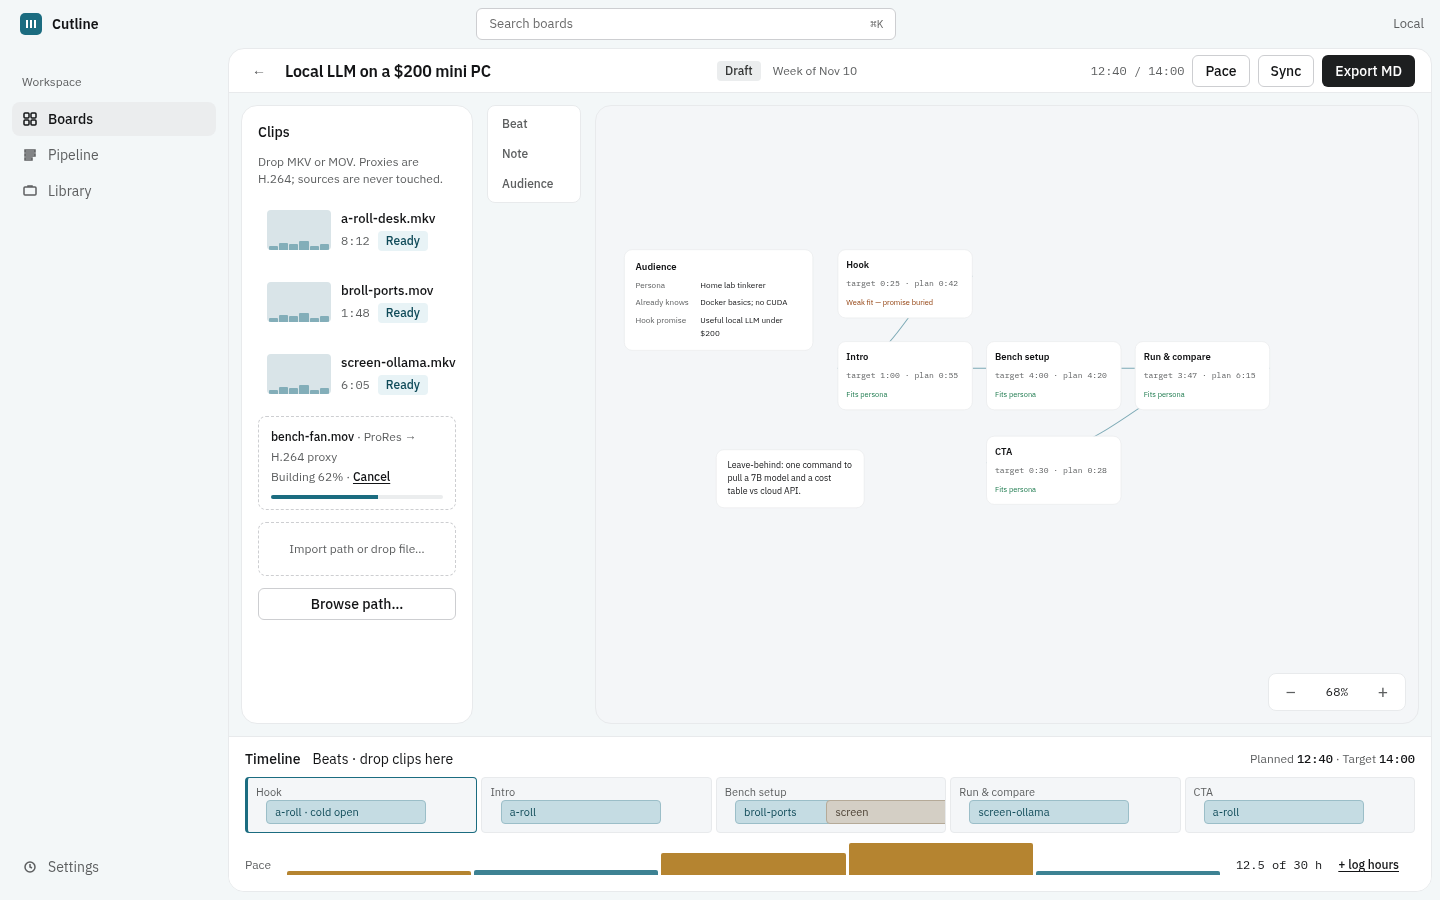
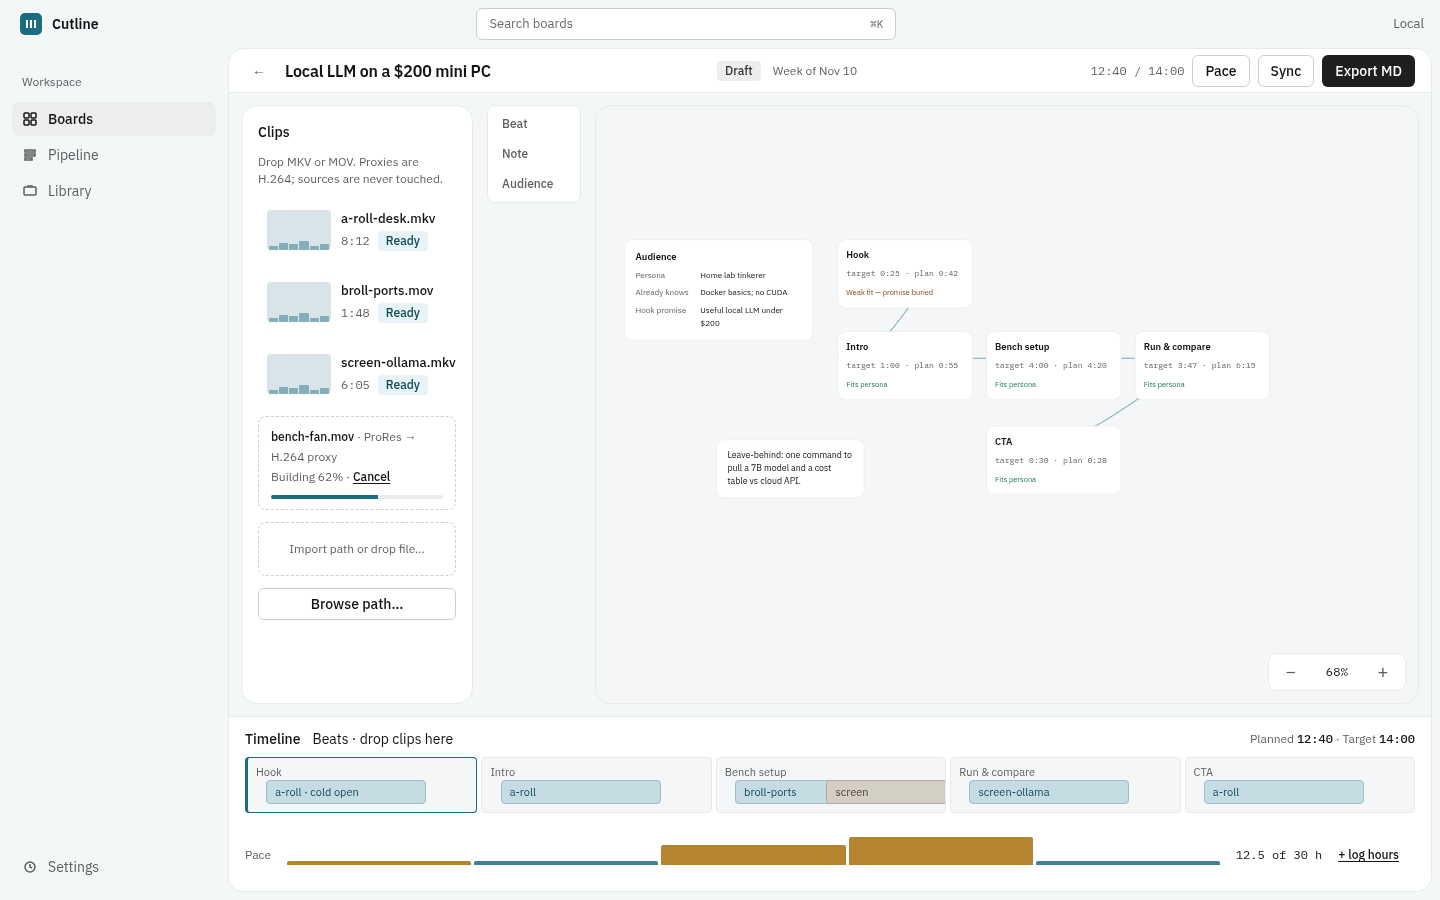
Polish timeline pace bars and Pace curve label/tag alignment
Add 12px bottom padding on the timeline pace row and cap bars at 70%
height. Place beat x-labels on end ticks to match cumulative dots, and
nudge delta tags up-and-left so they clear both the curve and the target
line. Retake canvas/pace screenshots and sync docs/screenshots.

diff --git a/public/js/app.js b/public/js/app.js
@@ -496,7 +496,8 @@ function renderMiniCurve() {
   const max = Math.max(...parts.map((p) => p.plannedSec || p.duration || 1), 1);
   return parts.map((p) => {
     const dur = p.plannedSec ?? p.duration ?? 0;
-    const h = Math.max(12, Math.round((dur / max) * 100));
+    // Cap tallest bar at ~70% of row height so bars clear the panel bottom padding
+    const h = Math.max(10, Math.round((dur / max) * 70));
     const slow = p.slow || (p.targetSec != null && dur > p.targetSec);
     return `<b class="${slow ? 'slow' : ''}" style="height:${h}%"></b>`;
   }).join('');
@@ -646,7 +647,7 @@ function renderPace() {
   const hoursOn = hoursTotal > 0 || hours?.activityWatch?.ok;
 
   const maxCum = Math.max(pacing.targetRuntimeSec || 1, pacing.totalPlannedSec || 1, 1);
-  const chartW = 640; const chartH = 200; const padL = 40; const padR = 28; const padT = 28; const padB = 36;
+  const chartW = 640; const chartH = 228; const padL = 40; const padR = 28; const padT = 48; const padB = 36;
   const plotW = chartW - padL - padR;
   const plotH = chartH - padT - padB;
   const n = Math.max(parts.length, 1);
@@ -664,9 +665,10 @@ function renderPace() {
   const poly = [`${padL},${padT + plotH}`, ...pts.map((p) => `${p.x},${p.y}`)].join(' ');
   const area = `M${padL},${padT + plotH} ` + pts.map((p) => `L${p.x},${p.y}`).join(' ') + ` L${pts[pts.length - 1].x},${padT + plotH} Z`;
   const targetY = padT + plotH - ((pacing.targetRuntimeSec || 0) / maxCum) * plotH;
+  // Label under each beat's END tick so it aligns with the cumulative point/dot
   const axisLabels = parts.map((p, i) => {
-    const xMid = padL + ((i + 0.5) / n) * plotW;
-    return { xMid, text: shortBeatLabel(p.label) };
+    const xEnd = padL + ((i + 1) / n) * plotW;
+    return { x: xEnd, text: shortBeatLabel(p.label), i };
   });
 
   const el = sheet();
@@ -699,7 +701,7 @@ function renderPace() {
               <span><i class="dot" style="background:var(--text);width:12px;height:1px;border-radius:0;vertical-align:middle;display:inline-block"></i>Target ${fmt(b.board.targetRuntimeSec)}</span>
               <span><i class="dot" style="background:var(--chart-3)"></i>Over part target</span>
             </div>
-            <svg viewBox="0 0 ${chartW} ${chartH}" preserveAspectRatio="xMidYMid meet" style="width:100%;height:200px;display:block">
+            <svg viewBox="0 0 ${chartW} ${chartH}" preserveAspectRatio="xMidYMid meet" style="width:100%;height:228px;display:block">
               <line x1="${padL}" y1="${padT}" x2="${chartW - padR}" y2="${padT}" stroke="var(--grid)"/>
               <line x1="${padL}" y1="${padT + plotH / 3}" x2="${chartW - padR}" y2="${padT + plotH / 3}" stroke="var(--grid)"/>
               <line x1="${padL}" y1="${padT + 2 * plotH / 3}" x2="${chartW - padR}" y2="${padT + 2 * plotH / 3}" stroke="var(--grid)"/>
@@ -712,18 +714,33 @@ function renderPace() {
               <path d="${area}" fill="var(--chart-1)" opacity="0.08"/>
               <polyline points="${poly}" fill="none" stroke="var(--chart-1)" stroke-width="2"/>
               ${pts.filter((p) => p.slow).map((p) => {
-                // Anchor annotation toward segment center so it reads with its beat
-                const labelX = Math.min(chartW - padR - 36, Math.max(padL, (p.xMid + p.x) / 2 - 12));
-                const above = p.y >= padT + 26;
-                const labelY = above ? p.y - 18 : p.y + 20;
+                // Always up-and-left of the dot — never intersect the curve or the target line
+                const tagW = 42;
+                const tagH = 13;
+                let labelX = p.x - tagW - 10;
+                let labelY = p.y - 20;
+                if (labelX < 4) labelX = Math.min(p.x + 12, chartW - padR - tagW);
+                // Keep the whole tag (labelY-10 .. labelY-10+tagH) clear above the target line when near it
+                const tagTop = () => labelY - 10;
+                const tagBot = () => labelY - 10 + tagH;
+                if (tagBot() >= targetY - 2 && tagTop() <= targetY + 2) {
+                  // Prefer above the target line
+                  labelY = targetY - 6;
+                }
+                if (tagTop() < 3) labelY = 3 + 10;
+                // Ensure still above the vertex
+                if (labelY > p.y - 14) labelY = Math.min(targetY - 6, p.y - 20);
+                if (labelY - 10 < 3) labelY = 13;
                 return `
                 <circle cx="${p.x}" cy="${p.y}" r="4.5" fill="var(--chart-3)" stroke="#fff" stroke-width="1"/>
-                <rect x="${labelX - 3}" y="${labelY - 10}" width="40" height="13" rx="2" fill="#ffffff" stroke="var(--border)" stroke-width="0.75"/>
+                <rect x="${labelX - 3}" y="${labelY - 10}" width="${tagW}" height="${tagH}" rx="2" fill="#ffffff" stroke="var(--border)" stroke-width="0.75"/>
                 <text x="${labelX}" y="${labelY}" font-size="10" fill="var(--warning)" font-family="IBM Plex Mono, monospace">${fmtSigned(p.overBy)}</text>`;
               }).join('')}
-              ${axisLabels.map((a) => `
-                <text x="${a.xMid}" y="${chartH - 10}" text-anchor="middle" font-size="11" fill="var(--muted)" font-family="IBM Plex Sans, sans-serif">${escapeHtml(a.text)}</text>
-              `).join('')}
+              ${axisLabels.map((a) => {
+                const anchor = a.i === n - 1 ? 'end' : 'middle';
+                const x = a.i === n - 1 ? a.x : a.x;
+                return `<text x="${x}" y="${chartH - 10}" text-anchor="${anchor}" font-size="11" fill="var(--muted)" font-family="IBM Plex Sans, sans-serif">${escapeHtml(a.text)}</text>`;
+              }).join('')}
             </svg>
           </div>
           <div class="hours-gap" style="border:1px solid var(--border);border-radius:8px;padding:16px;margin-top:24px">

diff --git a/public/css/app.css b/public/css/app.css
@@ -249,9 +249,9 @@ textarea.input { height: auto; padding: 8px 10px; resize: vertical; }
   font-size: 11px; color: #0f4a58; display: flex; align-items: center; padding: 0 8px;
   white-space: nowrap; overflow: hidden; left: 8%; width: 78%;
 }
-.tl-foot { display: flex; align-items: flex-end; gap: 16px; font-size: 12px; color: var(--muted); overflow: visible; min-height: 36px; padding-bottom: 2px; }
-.mini-curve { flex: 1; height: 32px; display: flex; align-items: flex-end; gap: 3px; overflow: visible; }
-.mini-curve b { flex: 1; background: var(--chart-1); border-radius: 2px 2px 0 0; opacity: 0.85; min-width: 8px; max-height: 100%; }
+.tl-foot { display: flex; align-items: flex-end; gap: 16px; font-size: 12px; color: var(--muted); overflow: visible; min-height: 52px; padding-bottom: 12px; padding-top: 4px; }
+.mini-curve { flex: 1; height: 40px; display: flex; align-items: flex-end; gap: 3px; overflow: visible; padding-bottom: 0; box-sizing: border-box; }
+.mini-curve b { flex: 1; background: var(--chart-1); border-radius: 2px 2px 0 0; opacity: 0.85; min-width: 8px; max-height: 70%; align-self: flex-end; }
 .mini-curve b.slow { background: var(--chart-3); }
 .hours-meter { font-family: var(--mono); font-size: 12px; color: var(--text); white-space: nowrap; }
 .hours-meter.off { color: var(--faint); }
